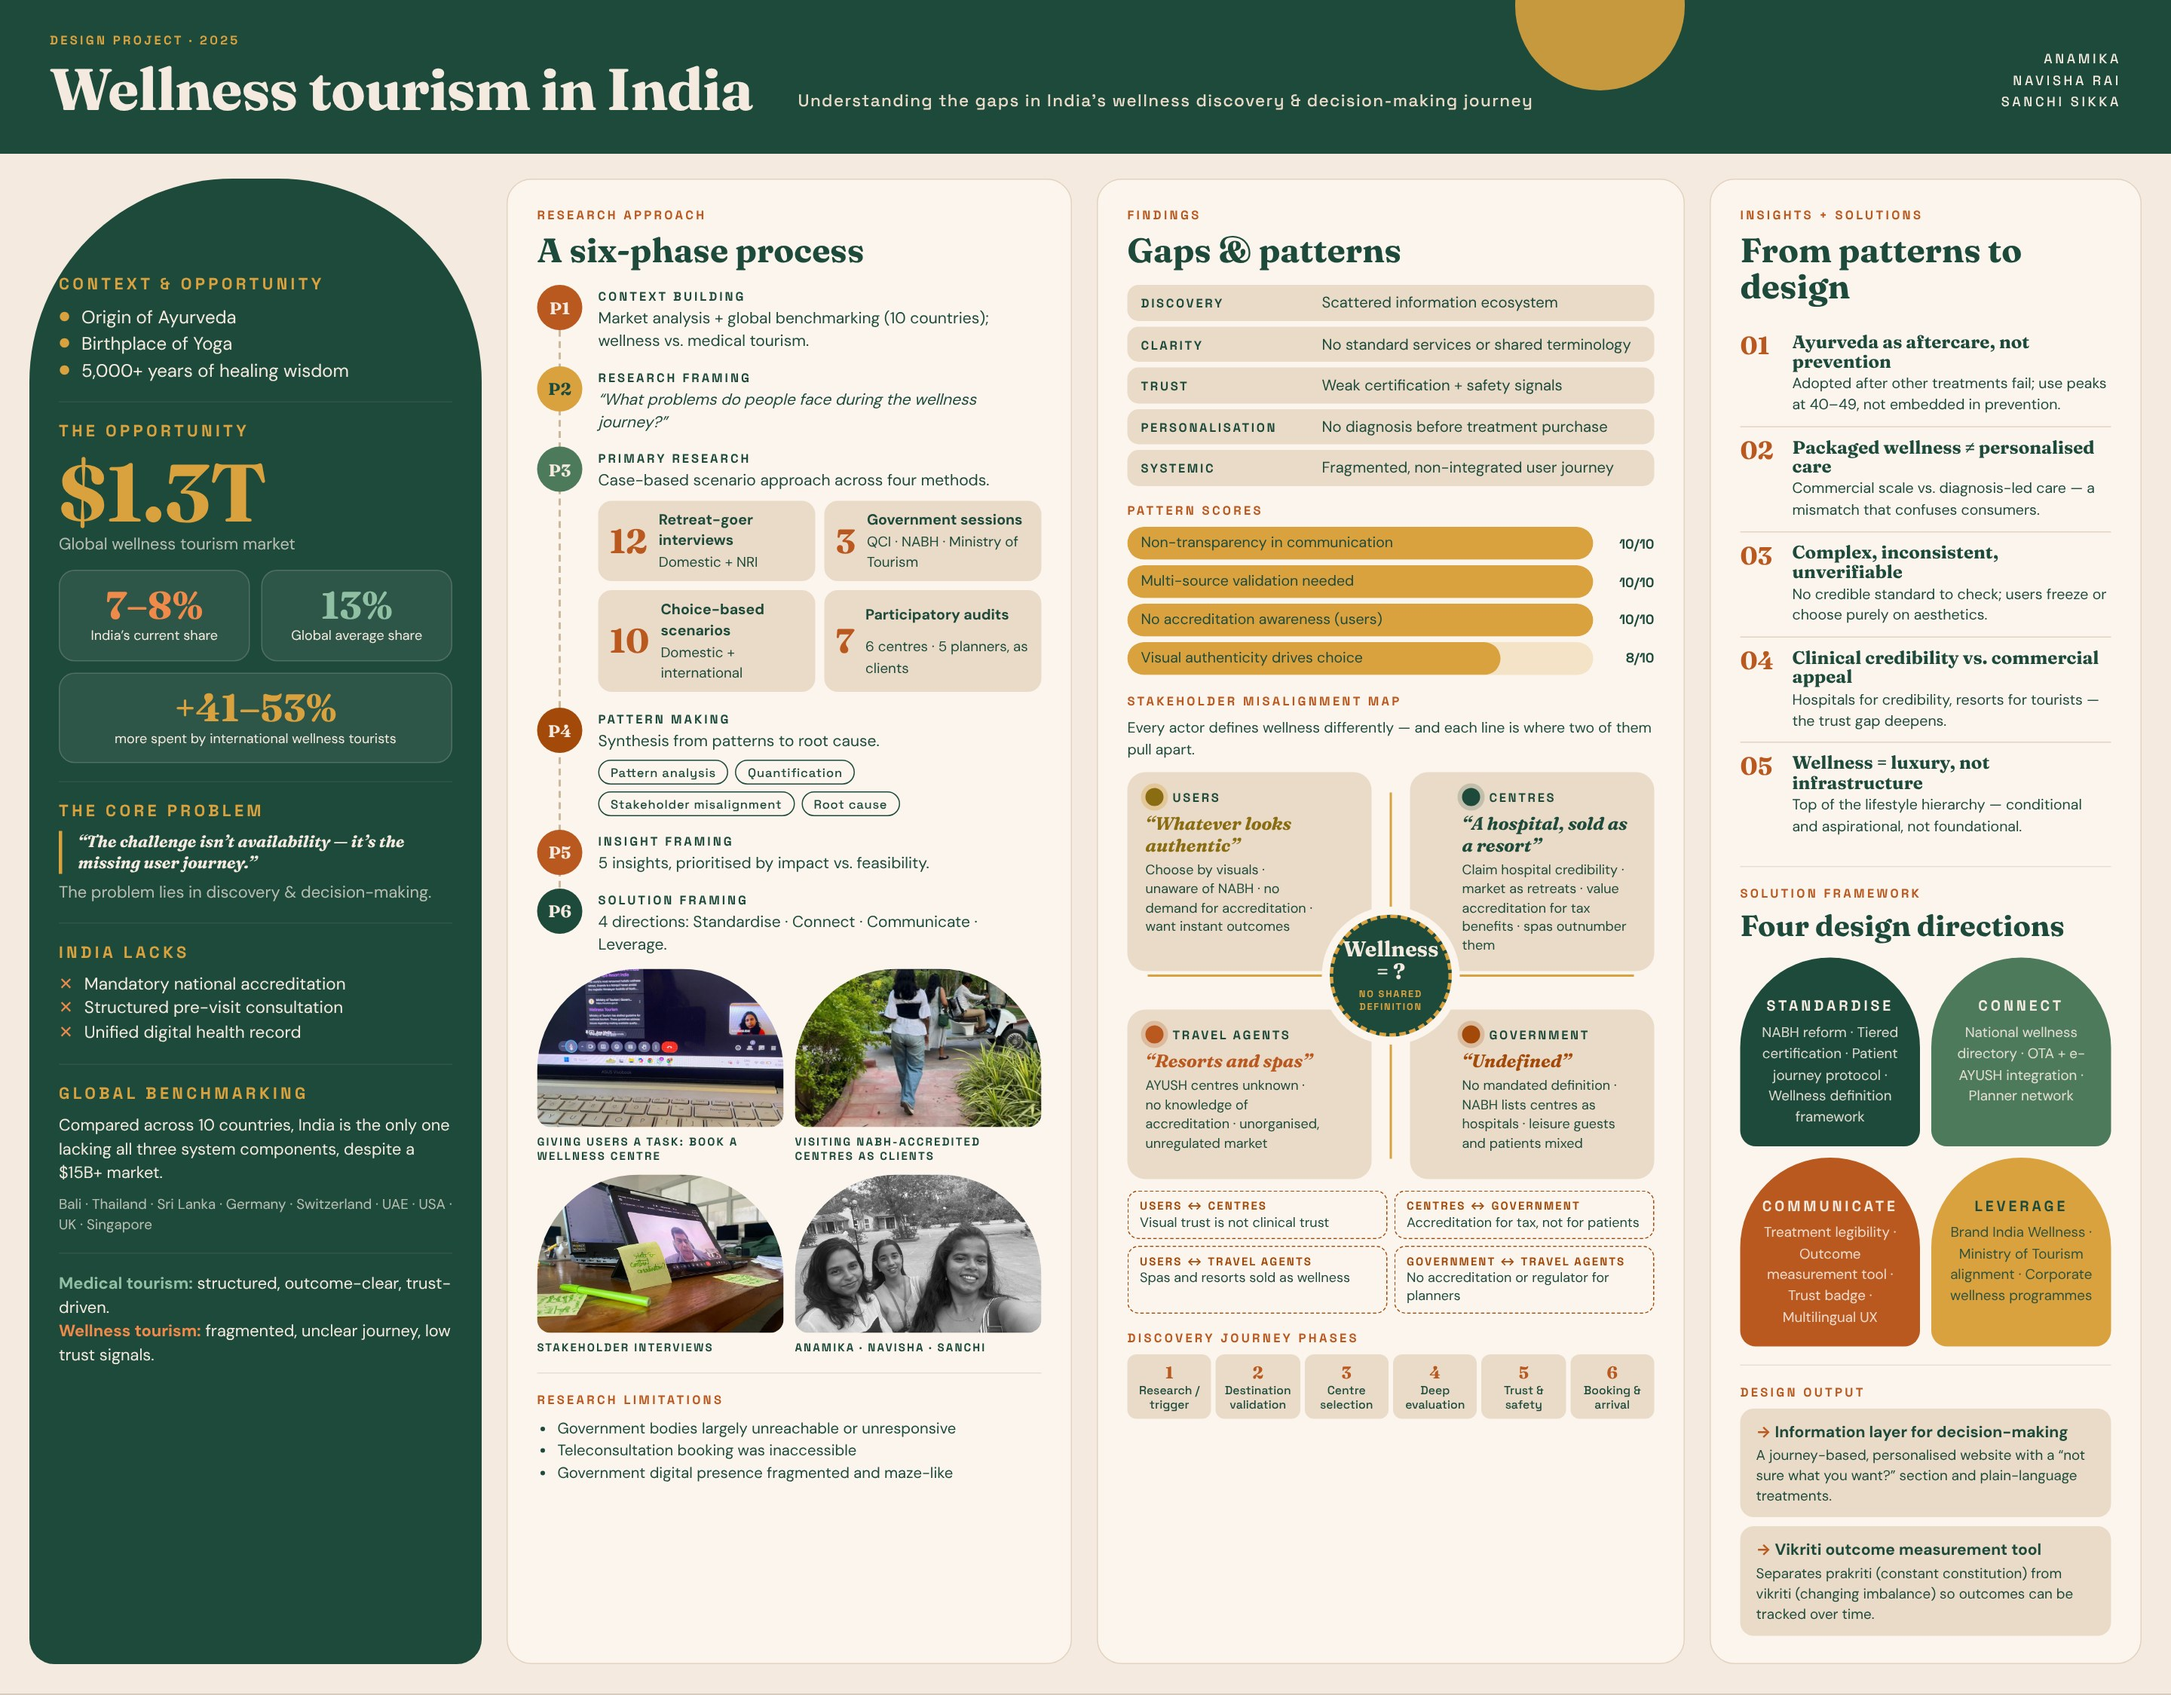
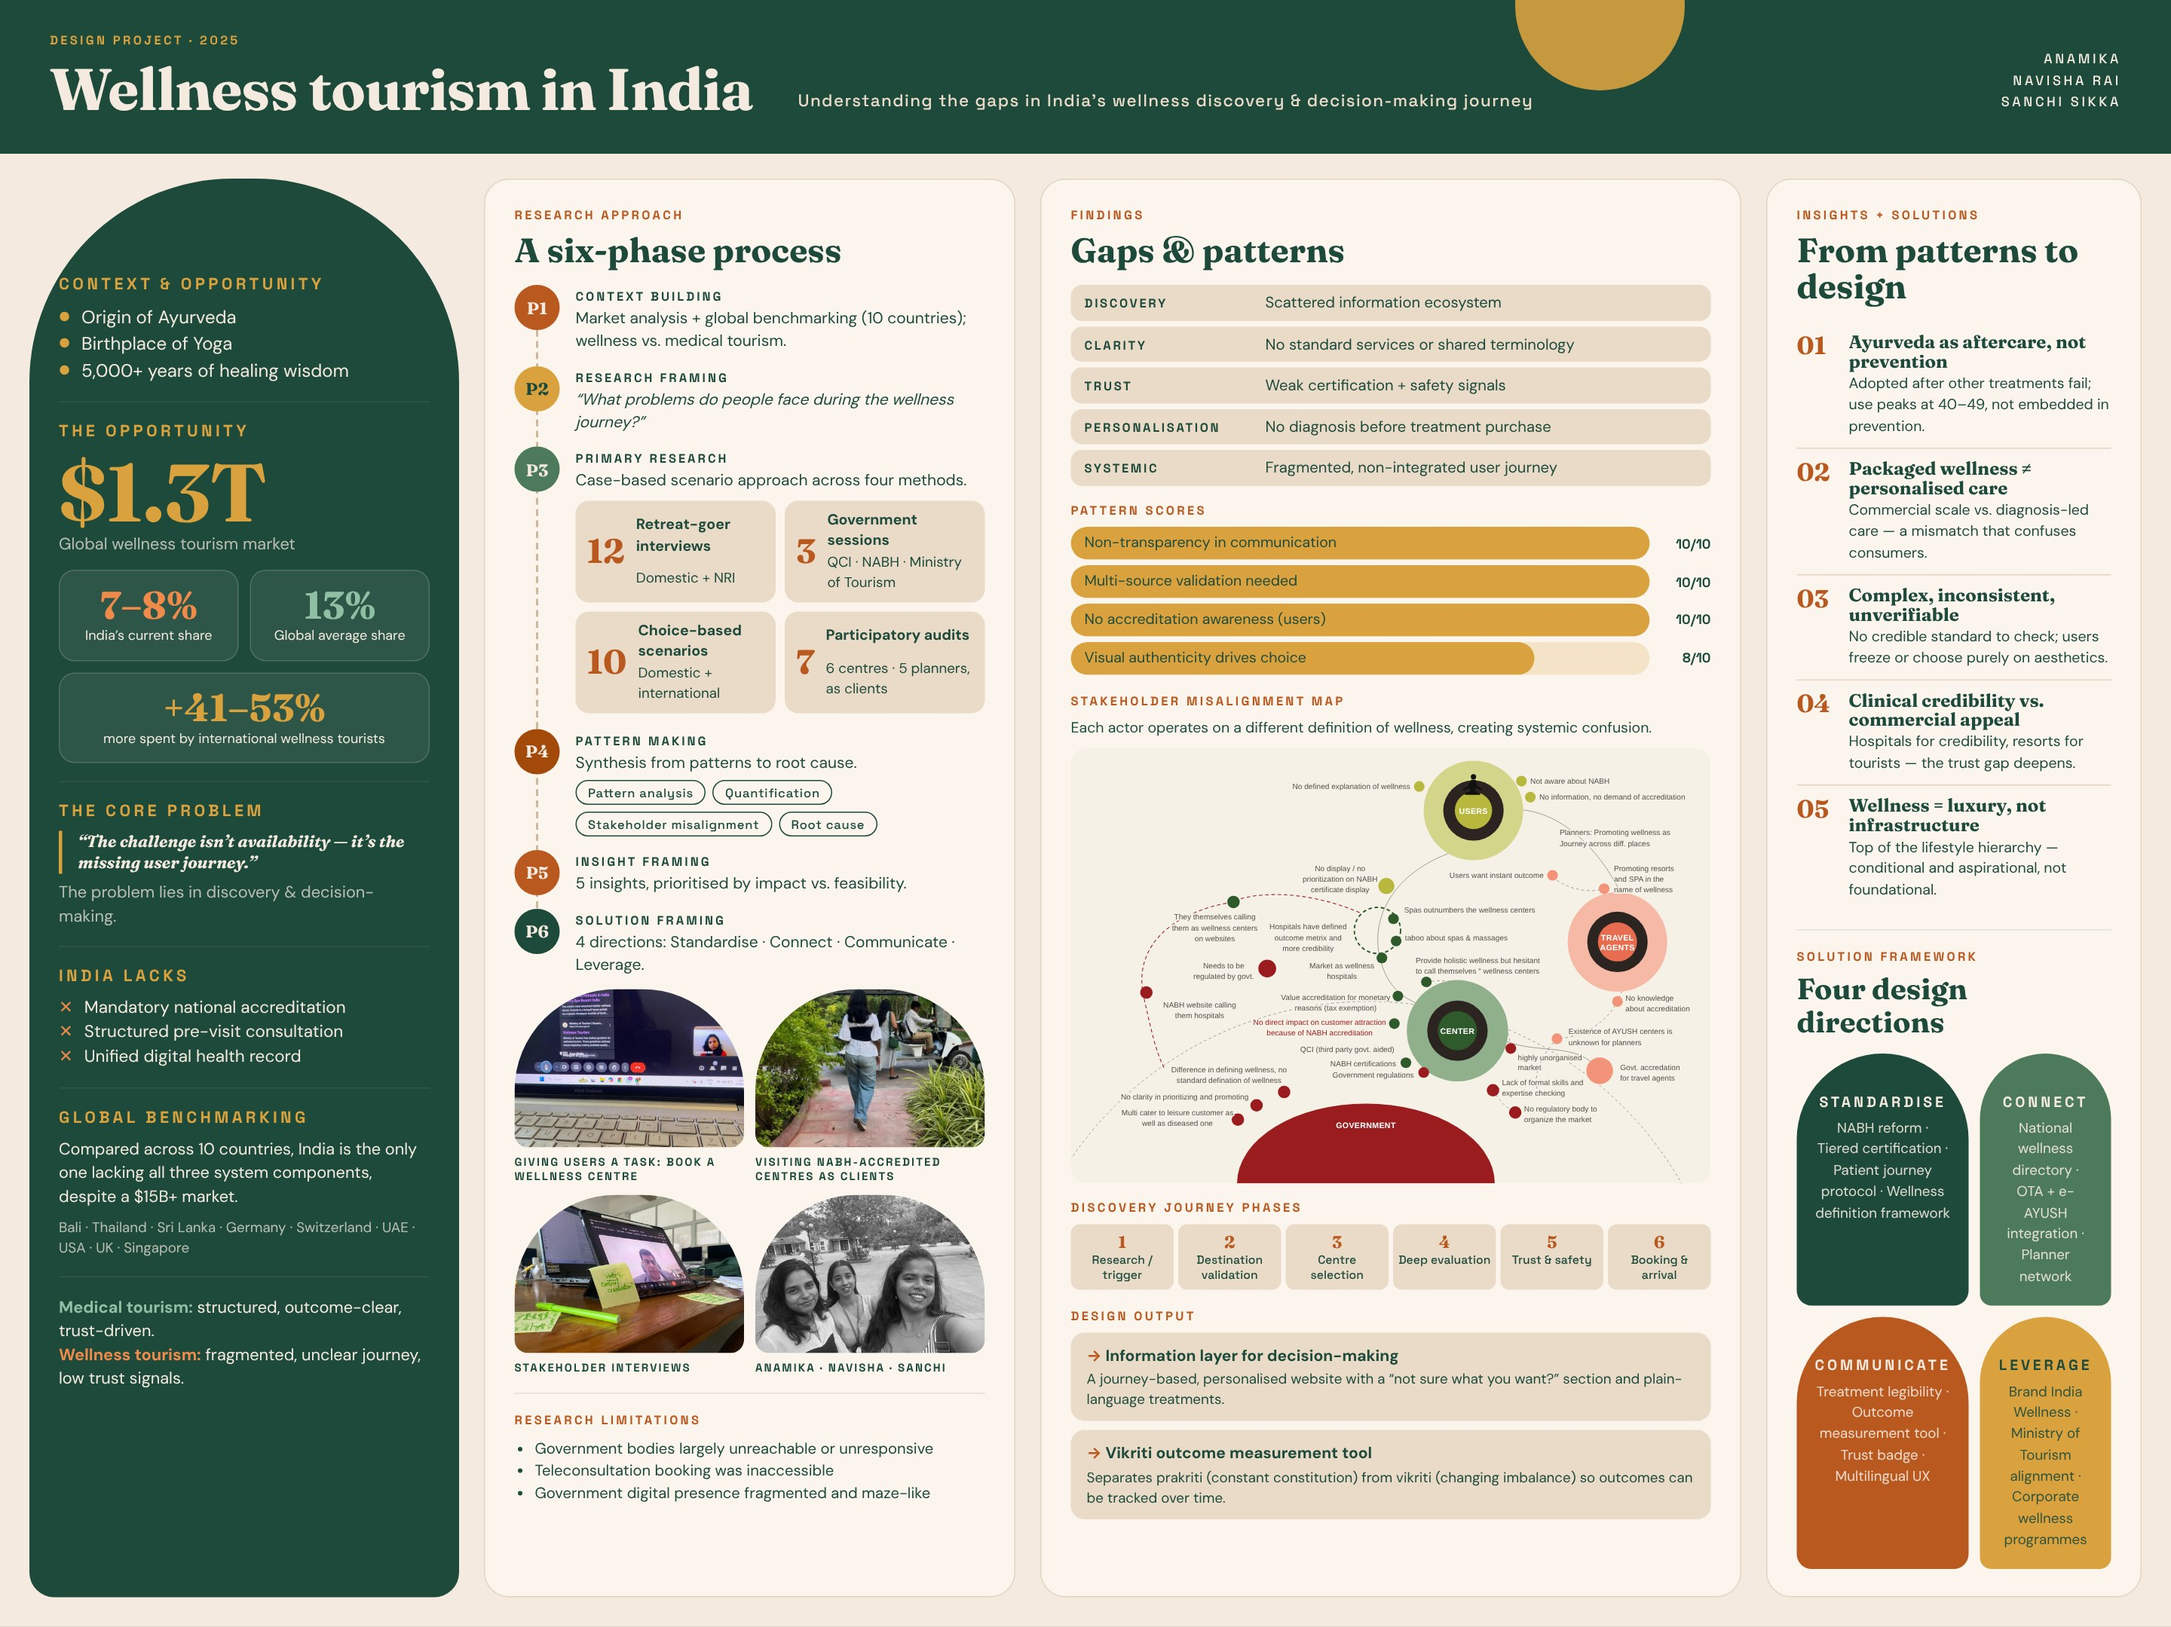
Use original stakeholder misalignment map across the wellness pages
Redraw the stakeholder map as an SVG matching the original artwork and use
it in the case study, the presentation (list kept as an expandable
fallback) and the research poster. Point the homepage Poster button at the
research poster.

Claude-Session: https://claude.ai/code/session_01G7hbnk79418yVd1VYrJx5x

diff --git a/wellness/research-poster.html b/wellness/research-poster.html
@@ -27,7 +27,7 @@ p{margin:0}
 .top .names{font:500 12px/1.6 var(--s);letter-spacing:.2em;text-transform:uppercase;text-align:right;padding-bottom:6px}
 .top .sun{position:absolute;right:430px;top:-70px;width:150px;height:150px;border-radius:50%;background:var(--gold);opacity:.9}
 
-.cols{display:grid;grid-template-columns:400px 500px 520px 1fr;gap:22px;padding:22px 26px 26px}
+.cols{display:grid;grid-template-columns:380px 470px 620px 1fr;gap:22px;padding:22px 26px 26px}
 .col{border-radius:22px;padding:24px 26px;min-height:0}
 .c1{background:var(--green);color:var(--cream);border-radius:180px 180px 22px 22px;padding-top:84px}
 .c1 .lab{color:var(--gold)}
@@ -77,21 +77,7 @@ hr{border:0;border-top:1px solid currentColor;opacity:.2;margin:16px 0}
 .bar div::before{content:"";position:absolute;inset:0;width:var(--w);background:var(--gold);z-index:-1;border-radius:99px}
 .bar em{font:700 12px var(--s);font-style:normal;text-align:right}
 
-.map{position:relative;display:grid;grid-template-columns:1fr 1fr;gap:34px;margin-top:10px}
-.map::before,.map::after{content:"";position:absolute;background:#d9a23f}
-.map::before{left:50%;top:18px;bottom:18px;width:2px;margin-left:-1px}
-.map::after{top:50%;left:18px;right:18px;height:2px;margin-top:-1px}
-.node{position:relative;z-index:1;background:var(--sand);border-radius:16px;padding:14px 16px;min-height:150px}
-.node:nth-child(odd){padding-right:46px}.node:nth-child(even){padding-left:46px}
-.node .who{display:flex;align-items:center;gap:8px;font:700 11px var(--s);letter-spacing:.16em;margin-bottom:6px}
-.node .who i{width:16px;height:16px;border-radius:50%;background:var(--c);box-shadow:0 0 0 4px var(--halo)}
-.node q{display:block;font:italic 700 16px/1.2 var(--d);quotes:none;margin-bottom:4px;color:var(--c)}
-.node p{font-size:12px;line-height:1.4}
-.hub{position:absolute;z-index:2;left:50%;top:50%;transform:translate(-50%,-50%);width:108px;height:108px;border-radius:50%;background:var(--green);color:var(--cream);display:grid;place-content:center;text-align:center;font:700 19px/1.05 var(--d);border:3px dashed var(--gold);box-shadow:0 0 0 7px #fbf5ee}
-.hub small{display:block;font:700 8.5px/1.3 var(--s);letter-spacing:.14em;color:var(--gold);margin-top:4px}
-.tensions{display:grid;grid-template-columns:1fr 1fr;gap:6px;margin-top:10px}
-.tensions div{border:1.5px dashed var(--rust);border-radius:10px;padding:6px 10px;font-size:12px;line-height:1.35}
-.tensions b{display:block;font:700 10px var(--s);letter-spacing:.14em;text-transform:uppercase;color:var(--rust)}
+.smap{width:100%;height:auto;display:block;margin-top:8px;border-radius:14px}
 .journey{display:grid;grid-template-columns:repeat(6,1fr);gap:4px;counter-reset:j}
 .journey span{font:500 10.5px/1.25 var(--s);text-align:center;background:var(--sand);border-radius:8px;padding:6px 4px}
 .journey span::before{counter-increment:j;content:counter(j);display:block;font:700 15px var(--d);color:var(--terra)}
@@ -202,23 +188,17 @@ hr{border:0;border-top:1px solid currentColor;opacity:.2;margin:16px 0}
     </div>
 
     <p class="lab" style="margin-top:16px">Stakeholder misalignment map</p>
-    <p style="font-size:13px">Every actor defines wellness differently — and each line is where two of them pull apart.</p>
-    <div class="map">
-      <div class="node" style="--c:#8a6d12;--halo:rgba(217,162,63,.35)"><div class="who"><i></i>USERS</div><q>“Whatever looks authentic”</q><p>Choose by visuals · unaware of NABH · no demand for accreditation · want instant outcomes</p></div>
-      <div class="node" style="--c:var(--green);--halo:rgba(30,74,60,.2)"><div class="who"><i></i>CENTRES</div><q>“A hospital, sold as a resort”</q><p>Claim hospital credibility · market as retreats · value accreditation for tax benefits · spas outnumber them</p></div>
-      <div class="node" style="--c:var(--terra);--halo:rgba(185,88,31,.25)"><div class="who"><i></i>TRAVEL AGENTS</div><q>“Resorts and spas”</q><p>AYUSH centres unknown · no knowledge of accreditation · unorganised, unregulated market</p></div>
-      <div class="node" style="--c:var(--rust);--halo:rgba(163,74,10,.22)"><div class="who"><i></i>GOVERNMENT</div><q>“Undefined”</q><p>No mandated definition · NABH lists centres as hospitals · leisure guests and patients mixed</p></div>
-      <div class="hub">Wellness<br>= ?<small>NO SHARED<br>DEFINITION</small></div>
-    </div>
-    <div class="tensions">
-      <div><b>Users ↔ Centres</b>Visual trust is not clinical trust</div>
-      <div><b>Centres ↔ Government</b>Accreditation for tax, not for patients</div>
-      <div><b>Users ↔ Travel agents</b>Spas and resorts sold as wellness</div>
-      <div><b>Government ↔ Travel agents</b>No accreditation or regulator for planners</div>
-    </div>
+    <p style="font-size:13px">Each actor operates on a different definition of wellness, creating systemic confusion.</p>
+    <img class="smap" src="images/stakeholder-map.svg" alt="Stakeholders misalignment map: users, travel agents, centres and government, each surrounded by the issues we found, with dashed lines linking where their views connect or clash">
 
     <p class="lab" style="margin-top:14px">Discovery journey phases</p>
     <div class="journey"><span>Research / trigger</span><span>Destination validation</span><span>Centre selection</span><span>Deep evaluation</span><span>Trust &amp; safety</span><span>Booking &amp; arrival</span></div>
+    <p style="margin:0"></p>
+    <p class="lab" style="margin-top:16px">Design output</p>
+    <div class="out">
+      <div><b>Information layer for decision-making</b>A journey-based, personalised website with a “not sure what you want?” section and plain-language treatments.</div>
+      <div><b>Vikriti outcome measurement tool</b>Separates prakriti (constant constitution) from vikriti (changing imbalance) so outcomes can be tracked over time.</div>
+    </div>
   </section>
 
   <!-- 4 · insights + directions -->
@@ -238,12 +218,6 @@ hr{border:0;border-top:1px solid currentColor;opacity:.2;margin:16px 0}
       <div class="dir"><h3>Connect</h3><p>National wellness directory · OTA + e-AYUSH integration · Planner network</p></div>
       <div class="dir"><h3>Communicate</h3><p>Treatment legibility · Outcome measurement tool · Trust badge · Multilingual UX</p></div>
       <div class="dir"><h3>Leverage</h3><p>Brand India Wellness · Ministry of Tourism alignment · Corporate wellness programmes</p></div>
-    </div>
-    <hr>
-    <p class="lab">Design output</p>
-    <div class="out">
-      <div><b>Information layer for decision-making</b>A journey-based, personalised website with a “not sure what you want?” section and plain-language treatments.</div>
-      <div><b>Vikriti outcome measurement tool</b>Separates prakriti (constant constitution) from vikriti (changing imbalance) so outcomes can be tracked over time.</div>
     </div>
   </section>
 </div>

diff --git a/wellness/presentation.html b/wellness/presentation.html
@@ -253,12 +253,15 @@ svg text{font-family:var(--sans)}
 <section data-ph="Phase 4 : Pattern making" style="padding-top:20px">
   <div class="w">
     <h2>Stakeholders <em>misalignment</em> mapping</h2>
+    <img src="images/stakeholder-map.svg" alt="Stakeholders misalignment map: users, travel agents, centres and government, each surrounded by the issues we found, with dashed lines linking where their views connect or clash" style="width:100%;height:auto;display:block;margin-top:18px">
+    <details style="margin-top:14px"><summary style="cursor:pointer">Read the map as a list</summary>
     <div class="st">
       <div><div class="ring" style="--c:#b7b83d;--l:#d3d58a">USERS</div><ul><li>No defined explanation of wellness</li><li>Not aware about NABH</li><li>No information, no demand of accreditation</li><li>Users want instant outcome</li></ul></div>
       <div><div class="ring" style="--c:#e86c4f;--l:#f6b9a6">TRAVEL AGENTS</div><ul><li>Planners promote wellness as a journey across different places</li><li>Promoting resorts and spas in the name of wellness</li><li>No knowledge about accreditation; existence of AYUSH centres is unknown to planners</li><li>Govt. accreditation for travel agents</li><li>Highly unorganised market, lack of formal skills and expertise checking, no regulatory body</li></ul></div>
       <div><div class="ring" style="--c:#2f5a2c;--l:#8fb08a">CENTER</div><ul><li>They call themselves wellness centers on websites; market as wellness hospitals</li><li>Hospitals have defined outcome metrics and more credibility</li><li>Provide holistic wellness but hesitant to call themselves “wellness centers”</li><li>Taboo about spas and massages; spas outnumber wellness centers</li><li>Value accreditation for monetary reasons (tax exemption), with no direct impact on customer attraction</li></ul></div>
       <div><div class="ring" style="--c:#9b1c1f;--l:#d68a8c">GOVERNMENT</div><ul><li>QCI (third party, govt. aided) and NABH certifications</li><li>Needs to be regulated by govt.</li><li>No standard definition of wellness; difference in defining wellness</li><li>No clarity in prioritising and promoting; no display or prioritisation of the NABH certificate</li><li>NABH website calls them hospitals</li><li>Multi-cater to leisure customers as well as diseased ones</li></ul></div>
     </div>
+    </details>
   </div>
 </section>
 

diff --git a/wellness/index.html b/wellness/index.html
@@ -78,6 +78,9 @@ header.top{position:relative;background:var(--rust);color:var(--cream);overflow:
 
 .poster img{width:100%;max-width:560px;height:auto;display:block;margin:28px auto 0;border-radius:18px;box-shadow:0 18px 40px rgba(30,74,60,.25)}
 .limits{padding-left:1.2rem}
+.smap{margin:36px 0 0}
+.smap img{width:100%;height:auto;display:block;border-radius:18px;box-shadow:0 12px 30px rgba(30,74,60,.15)}
+.smap figcaption{font:500 .72rem var(--s);letter-spacing:.2em;text-transform:uppercase;margin-top:12px}
 .btns{display:flex;flex-wrap:wrap;gap:16px;margin-top:24px}
 .btn{display:inline-block;padding:15px 28px;border:2px solid var(--cream);font:500 .78rem var(--s);letter-spacing:.2em;text-transform:uppercase;text-decoration:none;color:var(--cream)}
 .btn:hover{background:var(--gold);border-color:var(--gold);color:var(--green)}
@@ -192,6 +195,7 @@ footer .corners{background:var(--green)}
       <div class="bar"><div style="--w:80%">Visual authenticity as a reason to choose</div><em>8/10</em></div>
     </div>
     <p style="margin-top:28px">Each actor defines wellness differently. Users choose by visuals and don’t know NABH exists. Centres call themselves hospitals for credibility but market as resorts. Government has no mandated definition. Travel agents sell resorts and spas as wellness.</p>
+    <figure class="smap"><a href="images/stakeholder-map.svg"><img src="images/stakeholder-map.svg" alt="Stakeholders misalignment map: users, travel agents, centres and government, each surrounded by the issues we found, with dashed lines linking where their views connect or clash" loading="lazy"></a><figcaption>Stakeholders misalignment mapping</figcaption></figure>
   </div>
 </section>
 

diff --git a/index.html b/index.html
@@ -175,7 +175,7 @@
             <div class="project-links">
               <a href="./wellness/">Case study</a>
               <a href="./wellness/presentation.html">Full presentation</a>
-              <a href="./wellness/wellness-poster.html">Poster</a>
+              <a href="./wellness/research-poster.html">Poster</a>
             </div>
           </div>
 
